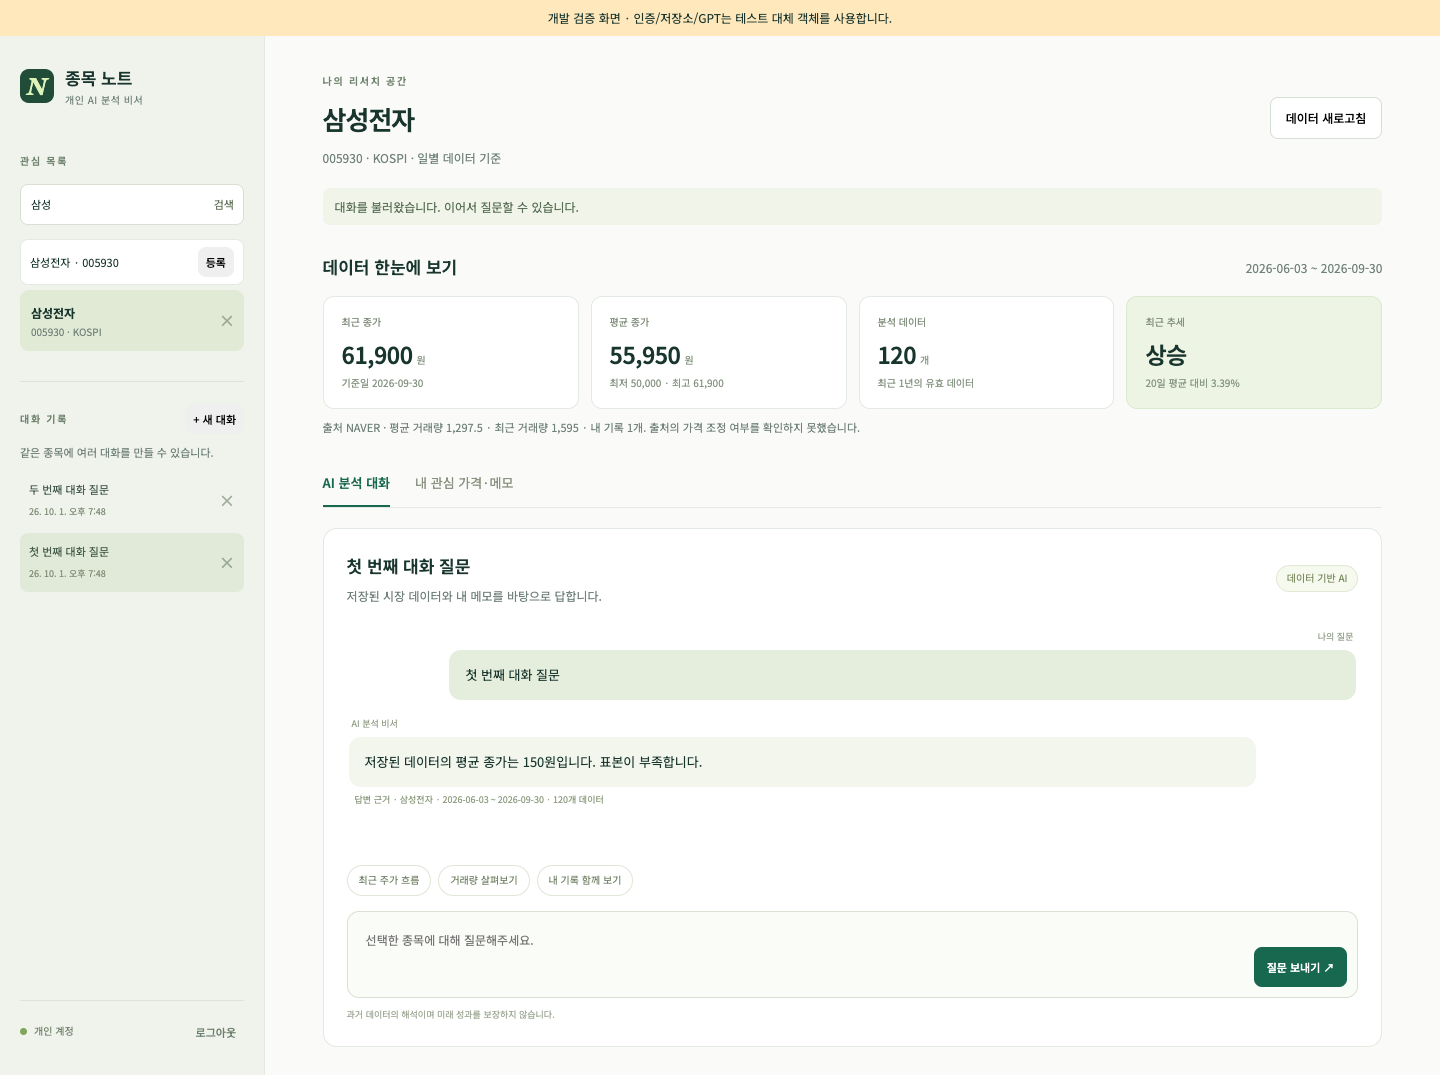
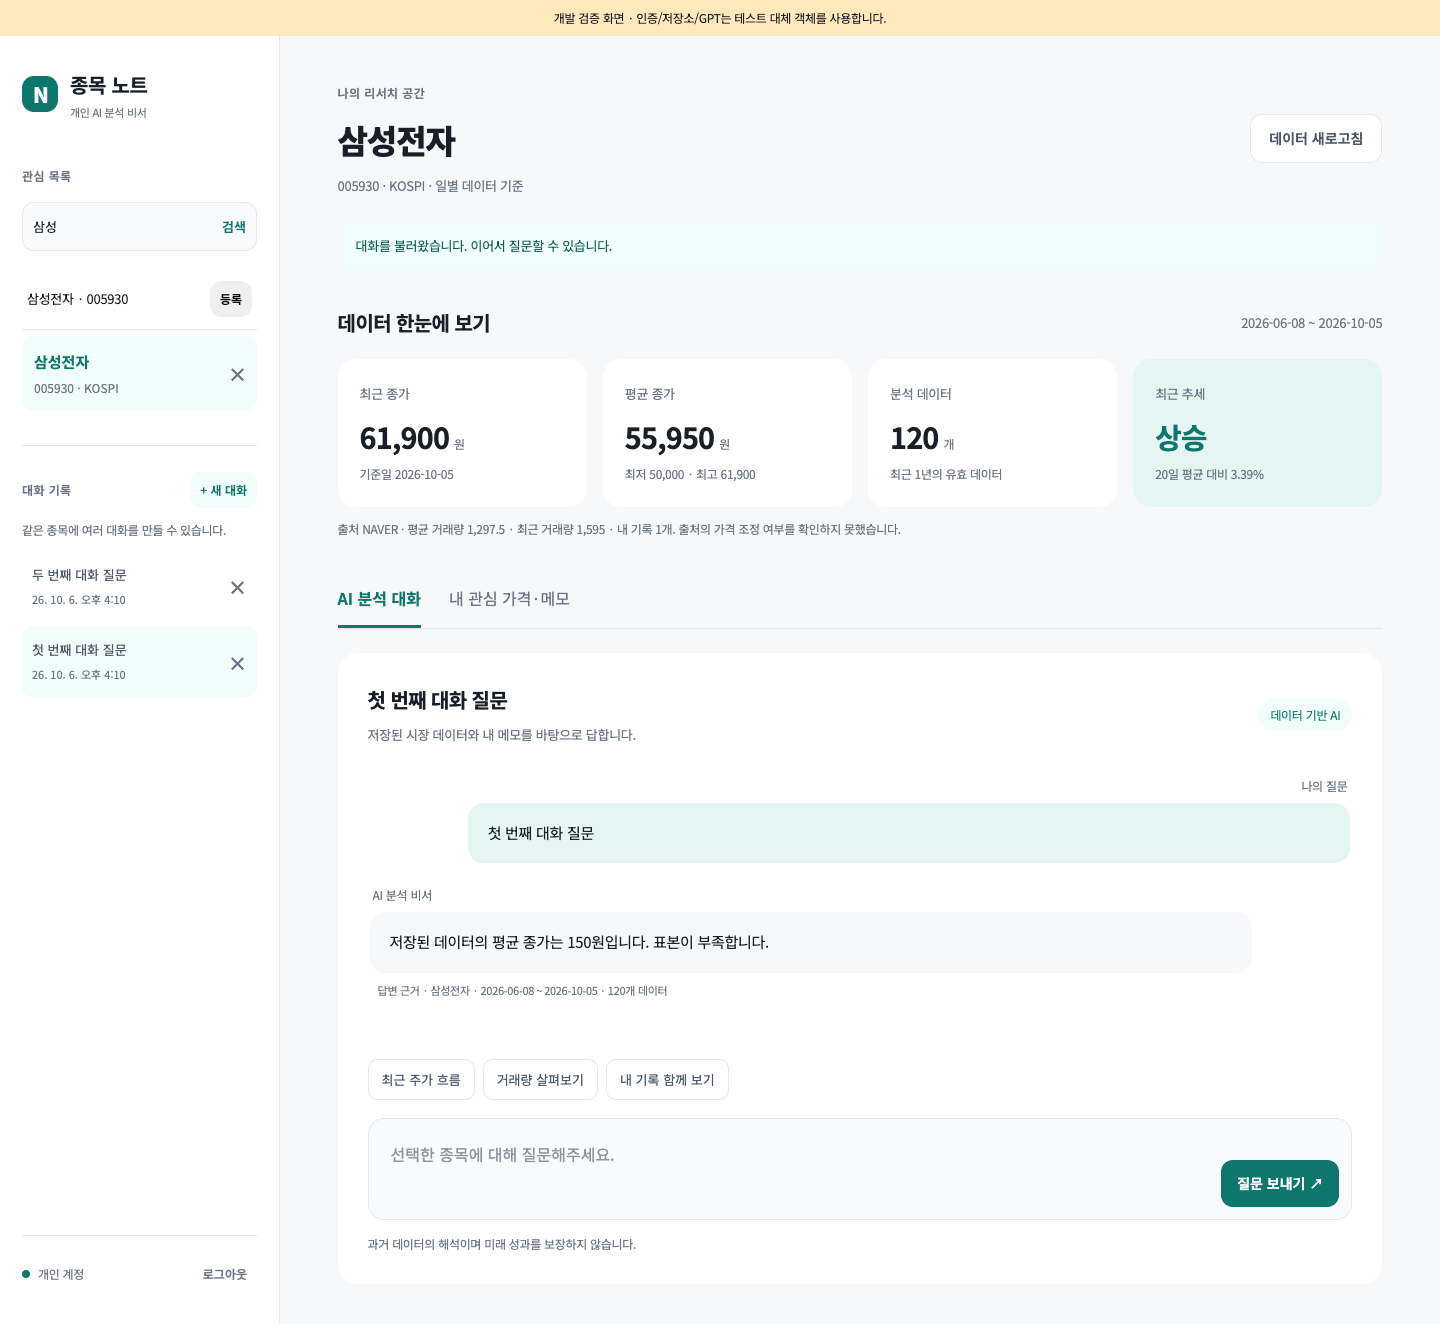
perf: cache stock catalog and debounce live search

diff --git a/frontend/index.html b/frontend/index.html
@@ -6,7 +6,7 @@
  <div class="login-card"><span class="brand-mark">N</span><h2>종목 노트</h2><p class="muted">등록한 개인 계정으로 로그인합니다.</p><form id="login-form"><label for="email">이메일</label><input id="email" type="email" autocomplete="username" required placeholder="이메일을 입력해주세요."><label for="password">비밀번호</label><input id="password" type="password" autocomplete="current-password" required placeholder="비밀번호를 입력해주세요."><button id="login-button" class="button primary" type="submit">로그인</button></form><p id="login-status" class="login-status" role="status" aria-live="polite">로그인 설정을 확인하고 있습니다.</p><details class="setup-guide"><summary>처음 실행하시나요?</summary><p>Firebase에서 이메일/비밀번호 로그인과 개인 계정을 준비한 뒤 프론트 설정을 생성해주세요. 자세한 방법은 저장소의 설정 안내에 있습니다.</p></details></div>
 </section>
 <div id="workspace" class="workspace" hidden>
- <aside class="sidebar"><a class="brand" href="./"><span class="brand-mark small">N</span><span>종목 노트<small>개인 AI 분석 비서</small></span></a><div class="sidebar-section"><span class="eyebrow">관심 목록</span><form id="search-form" class="search"><label class="sr-only" for="search-input">종목명 또는 종목 코드</label><input id="search-input" placeholder="종목명 또는 6자리 코드" maxlength="80"><button type="submit" aria-label="종목 검색">검색</button></form><div id="search-results"></div><button id="search-more" class="button subtle full" hidden>검색 결과 더 보기</button><div id="watchlist" class="watchlist"></div></div><div class="sidebar-section history-section"><div class="section-heading"><span class="eyebrow">대화 기록</span><button id="new-conversation" class="button compact" disabled>+ 새 대화</button></div><p class="hint">같은 종목에 여러 대화를 만들 수 있습니다.</p><div id="conversation-list"></div><button id="conversation-more" class="button subtle full" hidden>대화 더 보기</button></div><footer class="sidebar-footer"><span class="account-dot"></span>개인 계정<button id="logout" class="button subtle compact">로그아웃</button></footer></aside>
+ <aside class="sidebar"><a class="brand" href="./"><span class="brand-mark small">N</span><span>종목 노트<small>개인 AI 분석 비서</small></span></a><div class="sidebar-section"><span class="eyebrow">관심 목록</span><form id="search-form" class="search"><label class="sr-only" for="search-input">종목명 또는 종목 코드</label><input id="search-input" placeholder="종목명 또는 6자리 코드" maxlength="80"><button type="submit" aria-label="종목 검색">검색</button></form><p id="search-status" class="hint" role="status" aria-live="polite"></p><div id="search-results"></div><button id="search-more" class="button subtle full" hidden>검색 결과 더 보기</button><div id="watchlist" class="watchlist"></div></div><div class="sidebar-section history-section"><div class="section-heading"><span class="eyebrow">대화 기록</span><button id="new-conversation" class="button compact" disabled>+ 새 대화</button></div><p class="hint">같은 종목에 여러 대화를 만들 수 있습니다.</p><div id="conversation-list"></div><button id="conversation-more" class="button subtle full" hidden>대화 더 보기</button></div><footer class="sidebar-footer"><span class="account-dot"></span>개인 계정<button id="logout" class="button subtle compact">로그아웃</button></footer></aside>
  <main class="main"><header class="topbar"><div><span class="eyebrow">나의 리서치 공간</span><h1 id="stock-heading">관심 종목을 선택해주세요.</h1><p id="stock-meta" class="muted">종목을 검색하고 관심 목록에 등록해 시작합니다.</p></div><button id="refresh" class="button outline" disabled>데이터 새로고침</button></header><div id="notice" class="notice" role="status" aria-live="polite">서버에 연결하고 있습니다. 첫 연결은 시간이 걸릴 수 있습니다.</div><button id="retry-connection" class="button subtle" hidden>서버 연결 재시도</button>
  <section class="summary-section" aria-labelledby="summary-title"><div class="section-heading"><h2 id="summary-title">데이터 한눈에 보기</h2><span id="period" class="muted">종목 선택 후 표시합니다.</span></div><div id="summary-cards" class="summary-cards"></div><p id="quality" class="hint">최근 1년의 일별 데이터를 기준으로 분석합니다.</p></section>
  <nav class="tabs" aria-label="작업 화면"><button id="tab-chat" class="tab active" aria-pressed="true">AI 분석 대화</button><button id="tab-records" class="tab" aria-pressed="false">내 관심 가격·메모</button></nav>

diff --git a/frontend/js/stocks.js b/frontend/js/stocks.js
@@ -1,7 +1,8 @@
 import {$,el,button} from './ui.js';
+import {createSearchRunner} from './search-runner.js';
 
 export function createStocks(ctx){
-  let searchCursor=null,searchQuery='',searchGeneration=0;
+  let searchCursor=null,searchQuery='',searchTicket=null;
   async function watchlist(){
     const ticket=ctx.state.ticket();const result=await ctx.api.request('/api/watchlist');
     if(!ctx.state.isCurrent(ticket))return;
@@ -15,11 +16,17 @@ export function createStocks(ctx){
       remove.setAttribute('aria-label',`${stock.name} 관심 목록에서 제거`);row.append(select,remove);$('watchlist').append(row);
     }
   }
-  async function search(more=false){
-    const generation=++searchGeneration;const ticket=ctx.state.ticket();
-    if(!more){searchQuery=$('search-input').value.trim();searchCursor=null;$('search-results').replaceChildren();}
-    const result=await ctx.api.request(`/api/stocks?q=${encodeURIComponent(searchQuery)}${more&&searchCursor?`&cursor=${encodeURIComponent(searchCursor)}`:''}`);
-    if(generation!==searchGeneration||!ctx.state.isCurrent(ticket))return;
+  const runner=createSearchRunner({
+    async request(query,more,signal){
+      const ticket=ctx.state.ticket();searchTicket=ticket;
+      if(!more){searchQuery=query;searchCursor=null;$('search-results').replaceChildren();$('search-more').hidden=true;}
+      const result=await ctx.api.request(`/api/stocks?q=${encodeURIComponent(searchQuery)}${more&&searchCursor?`&cursor=${encodeURIComponent(searchCursor)}`:''}`,{signal});
+      return {result,ticket};
+    },
+    status(busy){$('search-status').textContent=busy?'종목을 검색하고 있습니다.':'';$('search-results').setAttribute('aria-busy',String(busy));$('search-more').disabled=busy;},
+    error(reason){if(ctx.state.isCurrent(searchTicket))ctx.notice(reason.message||'검색하지 못했습니다. 다시 검색해주세요.',true);},
+    apply({result,ticket},more){
+    if(!ctx.state.isCurrent(ticket))return;
     searchCursor=result.next_cursor;$('search-more').hidden=!searchCursor;
     if(!result.items.length&&!more)$('search-results').append(el('p','hint','검색 결과가 없습니다. 종목명 또는 코드를 확인해주세요.'));
     for(const stock of result.items){
@@ -27,8 +34,11 @@ export function createStocks(ctx){
       const add=button('등록',()=>ctx.perform(async()=>{add.disabled=true;try{await ctx.api.request('/api/watchlist',{method:'POST',body:{symbol:stock.symbol}});if(!ctx.state.isCurrent(ticket))return;await watchlist();ctx.notice(`${stock.name}을 등록했습니다.`);}finally{add.disabled=false;}}),'button compact');
       row.append(add);$('search-results').append(row);
     }
-  }
-  $('search-form').addEventListener('submit',event=>{event.preventDefault();ctx.perform(()=>search());});
-  $('search-more').addEventListener('click',()=>ctx.perform(()=>search(true)));
-  return {watchlist,search};
+    }
+  });
+  function search(more=false){return runner.run($('search-input').value.trim(),more);}
+  $('search-input').addEventListener('input',()=>{searchCursor=null;$('search-results').replaceChildren();$('search-more').hidden=true;runner.schedule($('search-input').value.trim());});
+  $('search-form').addEventListener('submit',event=>{event.preventDefault();void search();});
+  $('search-more').addEventListener('click',()=>{void search(true);});
+  return {watchlist,search,reset:()=>runner.cancel()};
 }

diff --git a/frontend/js/app.js b/frontend/js/app.js
@@ -30,7 +30,7 @@ async function selectStock(stock){if(state.busy)return;state.selectStock(stock);
   if(!state.isCurrent(ticket))return;const failed=results.find(r=>r.status==='rejected');notice(failed?failed.reason.message:'선택한 종목의 데이터와 기록을 불러왔습니다.',!!failed);
 }
 async function connect(){notice('서버에 연결하고 있습니다. 첫 연결은 시간이 걸릴 수 있습니다.');$('retry-connection').hidden=true;try{await api.request('/health');await api.request('/api/me');await ctx.stocks.watchlist();notice('서버에 연결했습니다. 관심 종목을 선택해주세요.');}catch(error){notice(error.message,true);$('retry-connection').hidden=false;}}
-function clearPrivate(){state.reset();for(const id of ['watchlist','search-results','conversation-list','records-list','messages','summary-cards'])$(id).replaceChildren();$('search-input').value='';$('question').value='';$('record-form').reset();$('stock-heading').textContent='관심 종목을 선택해주세요.';blankSummary();setBusy();}
+function clearPrivate(){ctx?.stocks?.reset();state.reset();for(const id of ['watchlist','search-results','conversation-list','records-list','messages','summary-cards'])$(id).replaceChildren();$('search-input').value='';$('question').value='';$('record-form').reset();$('stock-heading').textContent='관심 종목을 선택해주세요.';blankSummary();setBusy();}
 async function onAuthChange(user){authenticated=!!user;$('workspace').hidden=!user;$('login-panel').hidden=!!user;if(!user){clearPrivate();return;}if(api)await connect();}
 
 $('login-form').addEventListener('submit',async event=>{event.preventDefault();if(!auth)return;$('login-button').disabled=true;$('login-status').textContent='로그인하고 있습니다.';try{await auth.login($('email').value.trim(),$('password').value);$('password').value='';$('login-status').textContent='';}catch(error){$('login-status').textContent='로그인하지 못했습니다. 계정과 비밀번호를 확인해주세요.';}finally{$('login-button').disabled=false;}});

diff --git a/frontend/js/search-runner.js b/frontend/js/search-runner.js
@@ -1,0 +1,12 @@
+export function createSearchRunner({request,apply,status,error,delay=300,setTimer=setTimeout,clearTimer=clearTimeout}){
+ let generation=0,timer=null,controller=null;
+ function cancel(){generation++;clearTimer(timer);timer=null;controller?.abort();controller=null;status(false);}
+ async function run(query,more=false){
+  cancel();const current=generation;controller=new AbortController();status(true);
+  try{const result=await request(query,more,controller.signal);if(current===generation)apply(result,more);}
+  catch(reason){if(current===generation)error(reason);}
+  finally{if(current===generation){controller=null;status(false);}}
+ }
+ function schedule(query){cancel();timer=setTimer(()=>{timer=null;void run(query);},delay);}
+ return {run,schedule,cancel};
+}

diff --git a/backend/tests/test_stocks.py b/backend/tests/test_stocks.py
@@ -92,3 +92,53 @@ def test_invalid_refresh_retains_quality_reason_and_exclusion_count():
     assert result["error_kind"] == "validation"
     assert result["excluded_count"] == 1
     assert repo.get("market_data", "saved")["close"] == 100
+
+
+def test_repeated_search_and_validation_do_not_reread_catalog():
+    service, repo, _ = stock_service()
+    service.catalog()
+    reads = []
+    original_get, original_list = repo.get, repo.list
+    repo.get = lambda *args: (reads.append(args[0]), original_get(*args))[1]
+    repo.list = lambda *args, **kwargs: (reads.append(args[0]), original_list(*args, **kwargs))[1]
+    for _ in range(50):
+        assert service.search('삼성')['items'][0]['symbol'] == '005930'
+        service.require_stock('000660')
+    assert reads == []
+
+
+def test_warm_search_does_not_wait_for_price_refresh():
+    from concurrent.futures import ThreadPoolExecutor
+    from threading import Event
+    service, _, provider = stock_service()
+    service.catalog()
+    started, release = Event(), Event()
+    history = provider.history
+    def slow_history(*args):
+        started.set()
+        assert release.wait(3)
+        return history(*args)
+    provider.history = slow_history
+    with ThreadPoolExecutor(max_workers=2) as pool:
+        refresh = pool.submit(service.refresh, '005930')
+        assert started.wait(1)
+        search = pool.submit(service.search, '삼성')
+        try:
+            assert search.result(timeout=.5)['items'][0]['symbol'] == '005930'
+        finally:
+            release.set()
+        refresh.result(timeout=2)
+
+
+def test_expired_catalog_refreshes_and_cached_rows_cannot_be_mutated(monkeypatch):
+    import app.services.stocks as module
+    clock = [0]
+    monkeypatch.setattr(module, 'monotonic', lambda: clock[0])
+    service, repo, provider = stock_service()
+    rows = service.catalog()
+    rows[0]['name'] = 'tampered'
+    assert service.require_stock('005930')['name'] == '삼성전자'
+    clock[0] = 86401
+    repo.put('sync_state', 'catalog', {'last_success_at': (datetime.now(timezone.utc) - timedelta(days=2)).isoformat()})
+    provider.list_stocks = lambda: [{'market': 'KR', 'symbol': '005930', 'name': '갱신된 이름', 'exchange': 'KOSPI'}]
+    assert service.require_stock('005930')['name'] == '갱신된 이름'

diff --git a/backend/app/services/stocks.py b/backend/app/services/stocks.py
@@ -1,5 +1,6 @@
 from datetime import date, datetime, timedelta, timezone
 from threading import Lock
+from time import monotonic
 from zoneinfo import ZoneInfo
 
 from ..core.errors import ApiError
@@ -19,13 +20,24 @@ class StockService:
     def __init__(self, repo, provider):
         self.repo, self.provider = repo, provider
         self.lock = Lock()
+        self.catalog_lock = Lock()
+        self._catalog = []
+        self._catalog_until = 0
+
+    def _remember_catalog(self, stocks, seconds):
+        self._catalog = [dict(s) for s in stocks]
+        self._catalog_until = monotonic() + seconds
+        return [dict(s) for s in self._catalog]
 
     def catalog(self):
-        with self.lock:
+        with self.catalog_lock:
+            if self._catalog and monotonic() < self._catalog_until:
+                return [dict(s) for s in self._catalog]
             state = self.repo.get("sync_state", "catalog") or {}
             stocks = self.repo.list("stocks")
             if stocks and is_fresh(state.get("last_success_at")):
-                return stocks
+                age = (datetime.now(timezone.utc) - datetime.fromisoformat(state["last_success_at"])).total_seconds()
+                return self._remember_catalog(stocks, max(1, 86400 - age))
             try:
                 stocks = self.provider.list_stocks()
                 self.repo.batch_put("stocks", [(s["symbol"], dict(s, refreshed_at=now())) for s in stocks])
@@ -34,10 +46,10 @@ class StockService:
                     if old["symbol"] not in current:
                         self.repo.delete("stocks", old["id"])
                 self.repo.put("sync_state", "catalog", {"last_success_at": now()})
-                return stocks
+                return self._remember_catalog(stocks, 86400)
             except Exception:
                 if stocks:
-                    return stocks
+                    return self._remember_catalog(stocks, 60)
                 raise ApiError(502, "catalog_unavailable", "종목 목록을 가져오지 못했습니다. 잠시 후 재시도해주세요.") from None
 
     def search(self, q="", cursor=None, limit=30):

diff --git a/docs/future-improvements.md b/docs/future-improvements.md
@@ -1,13 +1,17 @@
 # 후속 개선사항
 
-## 종목 검색 속도 및 입력 UX
+## 종목 검색 속도 및 입력 UX — 구현 완료 (2026-10-06)
 
-2026-10-06 사용자 요청으로 이번 필수 기능·배포 작업에서 제외하고 후속 개선으로 보류합니다.
+- 종목 목록을 프로세스 메모리에 캐시합니다. 정상 목록은 원본의 24시간 갱신 주기를 따르고, 외부 목록 갱신 실패로 기존 목록을 사용하면 60초 후 다시 시도합니다. 서버 재시작 시 처음 한 번은 Firestore를 읽습니다.
+- 입력 후 300ms 동안 추가 입력이 없으면 자동 검색합니다. 검색 버튼·Enter·더 보기도 유지합니다.
+- 입력 변경 즉시 이전 요청을 취소하고 늦은 응답·오류를 무시합니다. 로그아웃 시 타이머와 요청을 정리합니다.
+- 검색 중 상태를 표시하며, 종목 목록 잠금과 가격 갱신 잠금을 분리합니다.
+- 캐시를 채운 후 반복 검색에는 종목 목록의 Firestore 읽기가 없습니다. 요약·기록·대화 등 다른 읽기는 계속 필요합니다.
 
-- 서버 메모리에 종목 목록을 재사용하여 검색마다 Firestore 전체 목록을 다시 읽는 비용과 지연을 줄입니다.
-- 입력 후 약 300ms에 자동 검색하는 디바운스를 적용합니다.
-- 검색 중 표시와 이전 요청 취소/늦은 응답 무시를 적용합니다.
-- 종목 목록 잠금과 가격 갱신 잠금의 경합을 점검합니다.
-- 변경 전후 실제 응답 시간을 측정하고 비교합니다.
+검증용 2,590개 종목과 메모리 저장소로 기존 커밋 `145bda0`과 변경 코드를 비교했습니다. 워밍업 후 검색 50회의 저장소 읽기 호출은 100회에서 0회, 로컬 응답 중앙값은 4.909ms에서 0.495ms였습니다. Firestore 네트워크와 Render 콜드스타트를 포함한 실제 서비스 속도 측정은 아니며 운영 확인이 별도로 필요합니다.
 
-현재는 검색 버튼 또는 Enter로 실행되며, 부분 일치 결과를 30개씩 반환합니다. 이번 보류 결정으로 기존 동작은 변경하지 않습니다.
+## 남은 개선사항
+
+- 운영 Render 환경의 첫 검색·반복 검색 응답 시간 측정
+- 실시간 현재가: 별도 시세 공급원·갱신 주기 설계 필요
+- 다른 시장 확장: 국내 시장 검증 후 진행

diff --git a/docs/verification.md b/docs/verification.md
@@ -51,3 +51,9 @@ Render 무료 Web Service를 싱가포르 지역에 배포했습니다. 실제 A
 Vercel Hobby 프로젝트는 GitHub 저장소에 연결하고 운영 브랜치를 `codex/stock-assistant`로 설정했습니다. 커밋 `8c1967c`의 운영 배포가 Ready 상태이며 `https://project-6ablk.vercel.app`에서 실제 로그인 화면과 Firebase 로그인 준비 상태를 확인했습니다. 프론트에는 API 주소와 Firebase 웹 공개 설정 4개만 저장했습니다. 로그인 화면 캡처는 `screenshots/deployment/login.jpg`이며 로그인 후 필수 기능 증빙을 대신하지 않습니다.
 
 Render CORS는 운영 origin `https://project-6ablk.vercel.app`의 Authorization 헤더를 포함한 preflight 요청을 200으로 허용합니다. 미등록 `https://example.com` origin은 400이며 허용 origin 헤더가 없습니다. 비밀 키는 운영 환경에서 교체가 필요하며, 사용자 로그인 이후 전체 기능 확인은 별도 진행합니다.
+
+## 검색 개선 검증 (2026-10-06)
+
+캐시를 채운 후 반복 검색·종목 검증이 저장소를 다시 읽지 않는지, 느린 가격 갱신 중에도 검색이 끝나는지, 캐시 만료 후 목록이 갱신되는지 검사했습니다. 캐시 반환값을 수정해도 원본이 오염되지 않는지 확인했습니다. Python 테스트 58개와 Node 테스트 9개가 통과했습니다.
+
+입력 변경 직후 이전 요청의 취소·늦은 결과/오류 무시와 디바운스 처리를 검사했습니다. `browser.mjs`를 실제 실행하여 버튼 없이 자동 검색, Enter 검색, 버튼 검색 및 기존 CRUD·대화 복원·모바일·로그아웃 흐름을 확인했습니다. 브라우저 검증의 인증·Firestore·AI는 테스트 대체 객체이며 실제 개인 계정이나 유료 AI 호출을 사용하지 않았습니다. 정적 빌드와 diff 검사도 통과했습니다. 로컬 비교 측정의 조건과 수치는 `future-improvements.md`에 기록했습니다.
